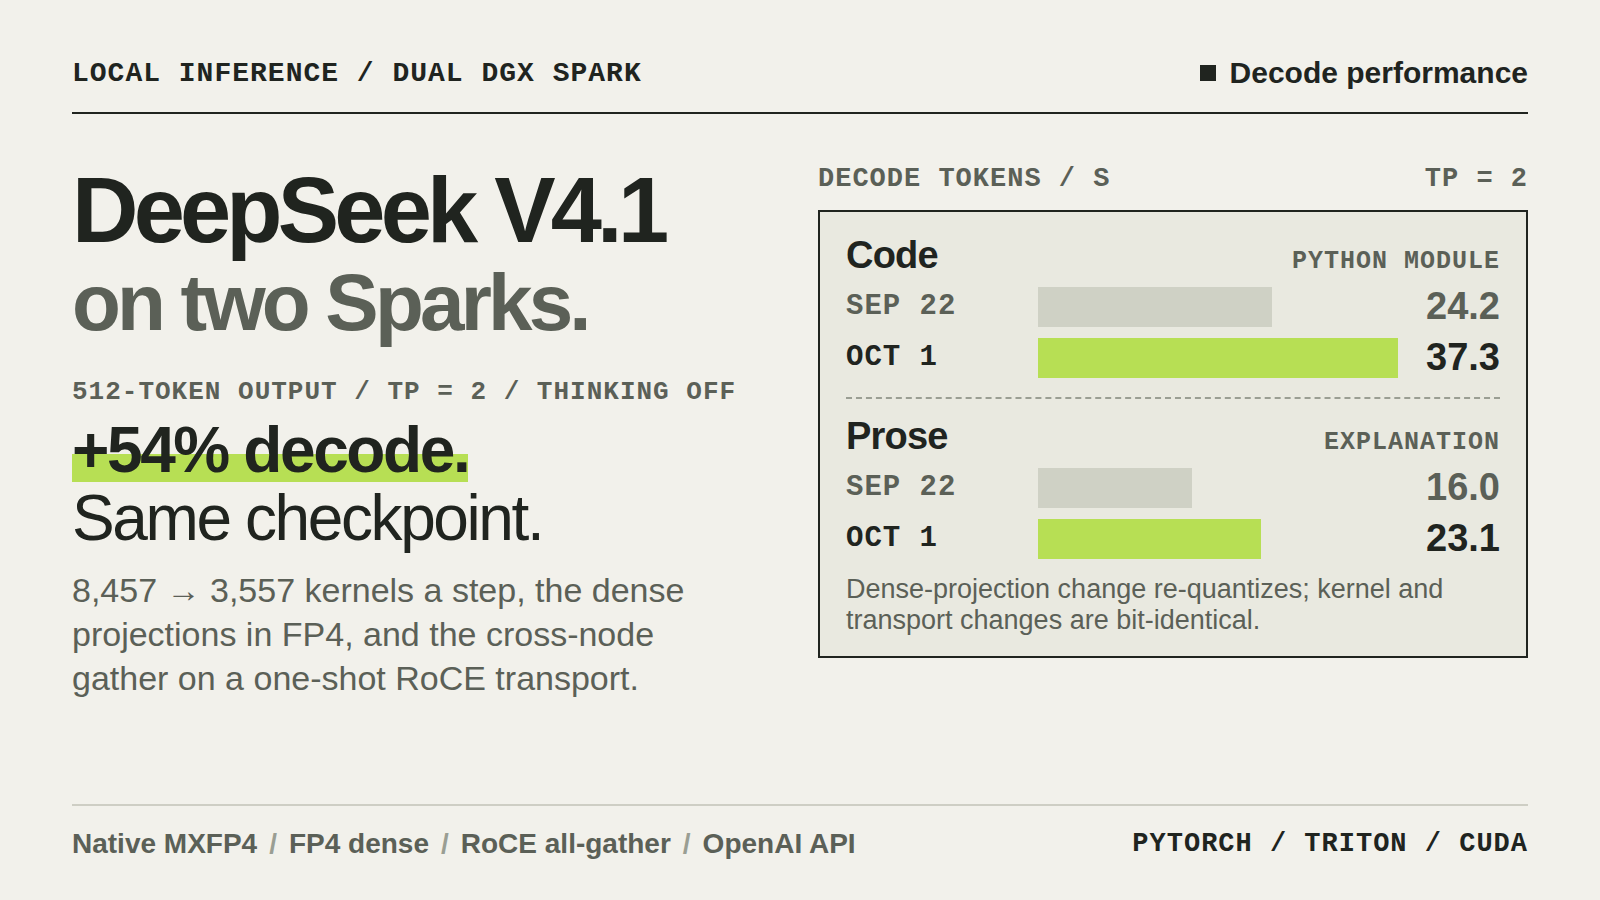
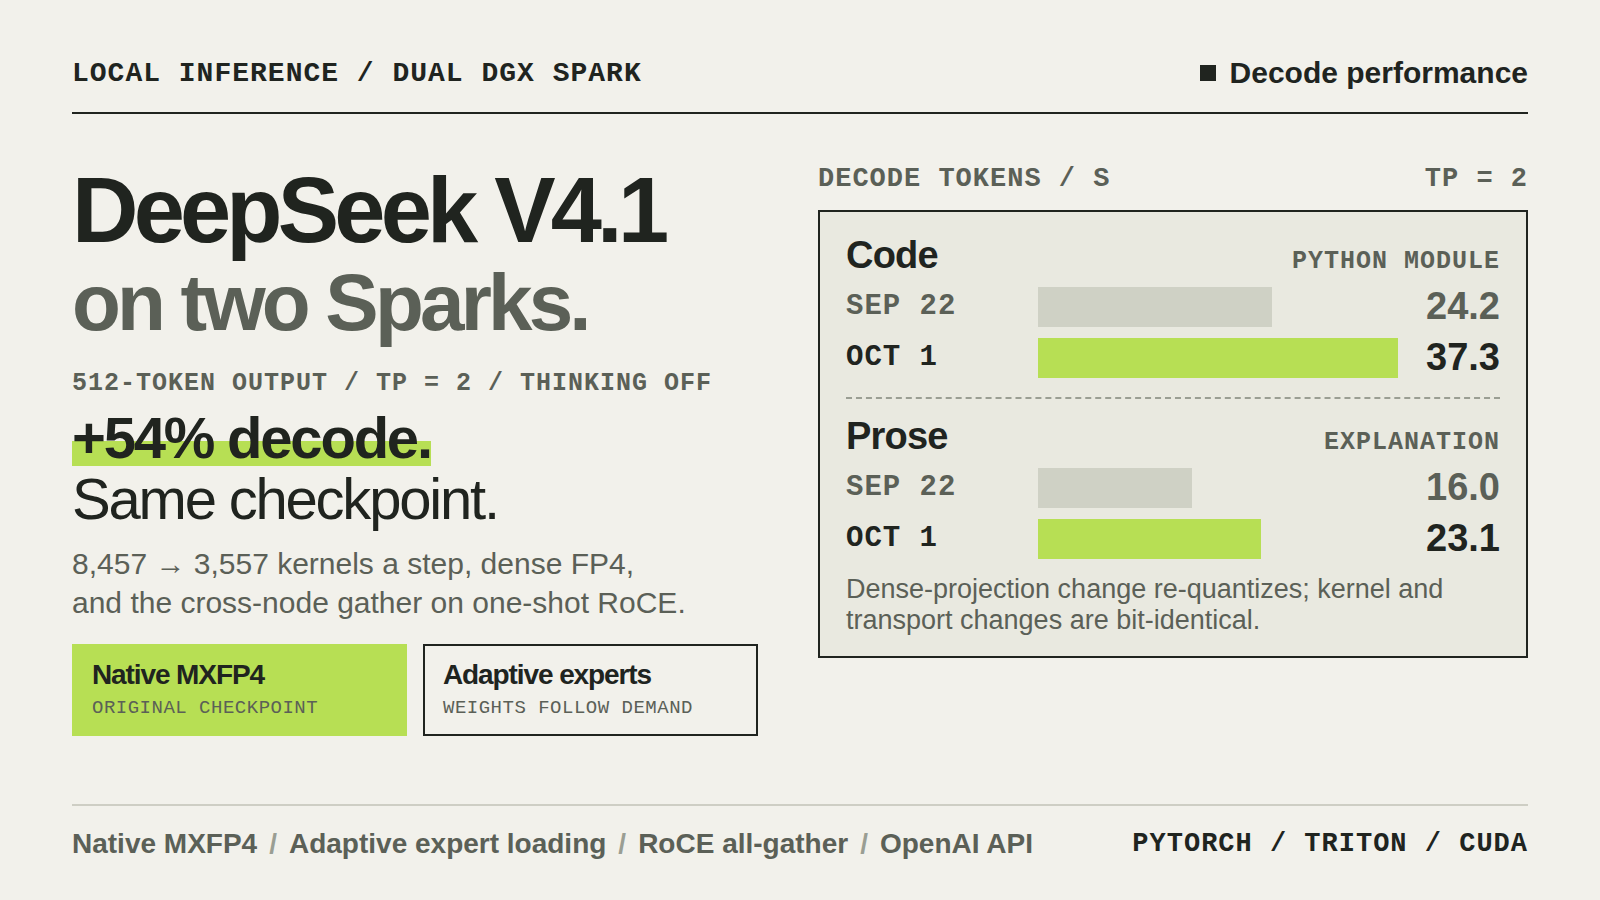
Performance card: keep the recipe's own identity
Adds the Native MXFP4 / Adaptive experts capability chips and puts adaptive expert loading in the
footer, so the performance card still says what this recipe is, not just how fast it got. Tighter
vertical rhythm so the chips clear the footer.

Changed region(s): [[0.0312, 0.4044, 0.4688, 0.84], [0.1875, 0.9022, 0.6562, 0.9644]]

diff --git a/assets/social/performance.html b/assets/social/performance.html
@@ -24,12 +24,19 @@
   main { display: grid; grid-template-columns: 690px 1fr; gap: 56px; padding-top: 50px; }
   h1 { margin: 0; font-size: 92px; line-height: 1.02; letter-spacing: -4.8px; font-weight: 600; }
   h1 span { display: block; color: var(--quiet); font-size: 80px; letter-spacing: -3.8px; margin-top: 4px; }
-  .claim { margin-top: 34px; }
-  .claim .label { font-size: 26px; color: var(--quiet); }
-  h2 { font-size: 64px; line-height: 1.05; letter-spacing: -2.4px; font-weight: 500; margin: 10px 0 16px; }
+  .claim { margin-top: 26px; }
+  .claim .label { font-size: 25px; color: var(--quiet); }
+  h2 { font-size: 58px; line-height: 1.05; letter-spacing: -2.2px; font-weight: 500; margin: 10px 0 14px; }
   /* marker underline: the highlight sits under the text, so the text keeps the left margin */
   h2 b { font-weight: 700; background: linear-gradient(transparent 56%, var(--green) 56%, var(--green) 94%, transparent 94%); }
-  .description { font-size: 34px; line-height: 1.3; margin: 0; color: var(--quiet); }
+  .description { font-size: 30px; line-height: 1.3; margin: 0; color: var(--quiet); }
+
+  .capabilities { display: grid; grid-template-columns: 335px 335px; gap: 16px; margin-top: 22px; }
+  .capability { padding: 14px 18px 15px; border: 2px solid var(--ink); }
+  .capability.native { background: var(--green); border-color: var(--green); }
+  .capability strong { display: block; font-size: 28px; line-height: 1.1; letter-spacing: -1.1px; font-weight: 600; }
+  .capability span { display: block; margin-top: 6px; font-size: 19px; color: var(--quiet);
+                     font-family: 'Courier New', monospace; text-transform: uppercase; letter-spacing: .5px; }
 
   .chart-heading { display: flex; justify-content: space-between; font-size: 27px; color: var(--quiet); margin-bottom: 16px; }
   .panel { border: 2px solid var(--ink); background: var(--panel); padding: 22px 26px 20px; }
@@ -68,7 +75,11 @@
       <div class="claim">
         <div class="label mono">512-token output / TP = 2 / thinking off</div>
         <h2><b>+54% decode.</b><br>Same checkpoint.</h2>
-        <p class="description">8,457 → 3,557 kernels a step, the dense<br>projections in FP4, and the cross-node<br>gather on a one-shot RoCE transport.</p>
+        <p class="description">8,457 → 3,557 kernels a step, dense FP4,<br>and the cross-node gather on one-shot RoCE.</p>
+      </div>
+      <div class="capabilities">
+        <div class="capability native"><strong>Native MXFP4</strong><span>Original checkpoint</span></div>
+        <div class="capability"><strong>Adaptive experts</strong><span>Weights follow demand</span></div>
       </div>
     </section>
 
@@ -91,7 +102,7 @@
   </main>
 
   <footer>
-    <div class="features">Native MXFP4<span>/</span>FP4 dense<span>/</span>RoCE all-gather<span>/</span>OpenAI API</div>
+    <div class="features">Native MXFP4<span>/</span>Adaptive expert loading<span>/</span>RoCE all-gather<span>/</span>OpenAI API</div>
     <div class="stack mono">PyTorch / Triton / CUDA</div>
   </footer>
 </div>
